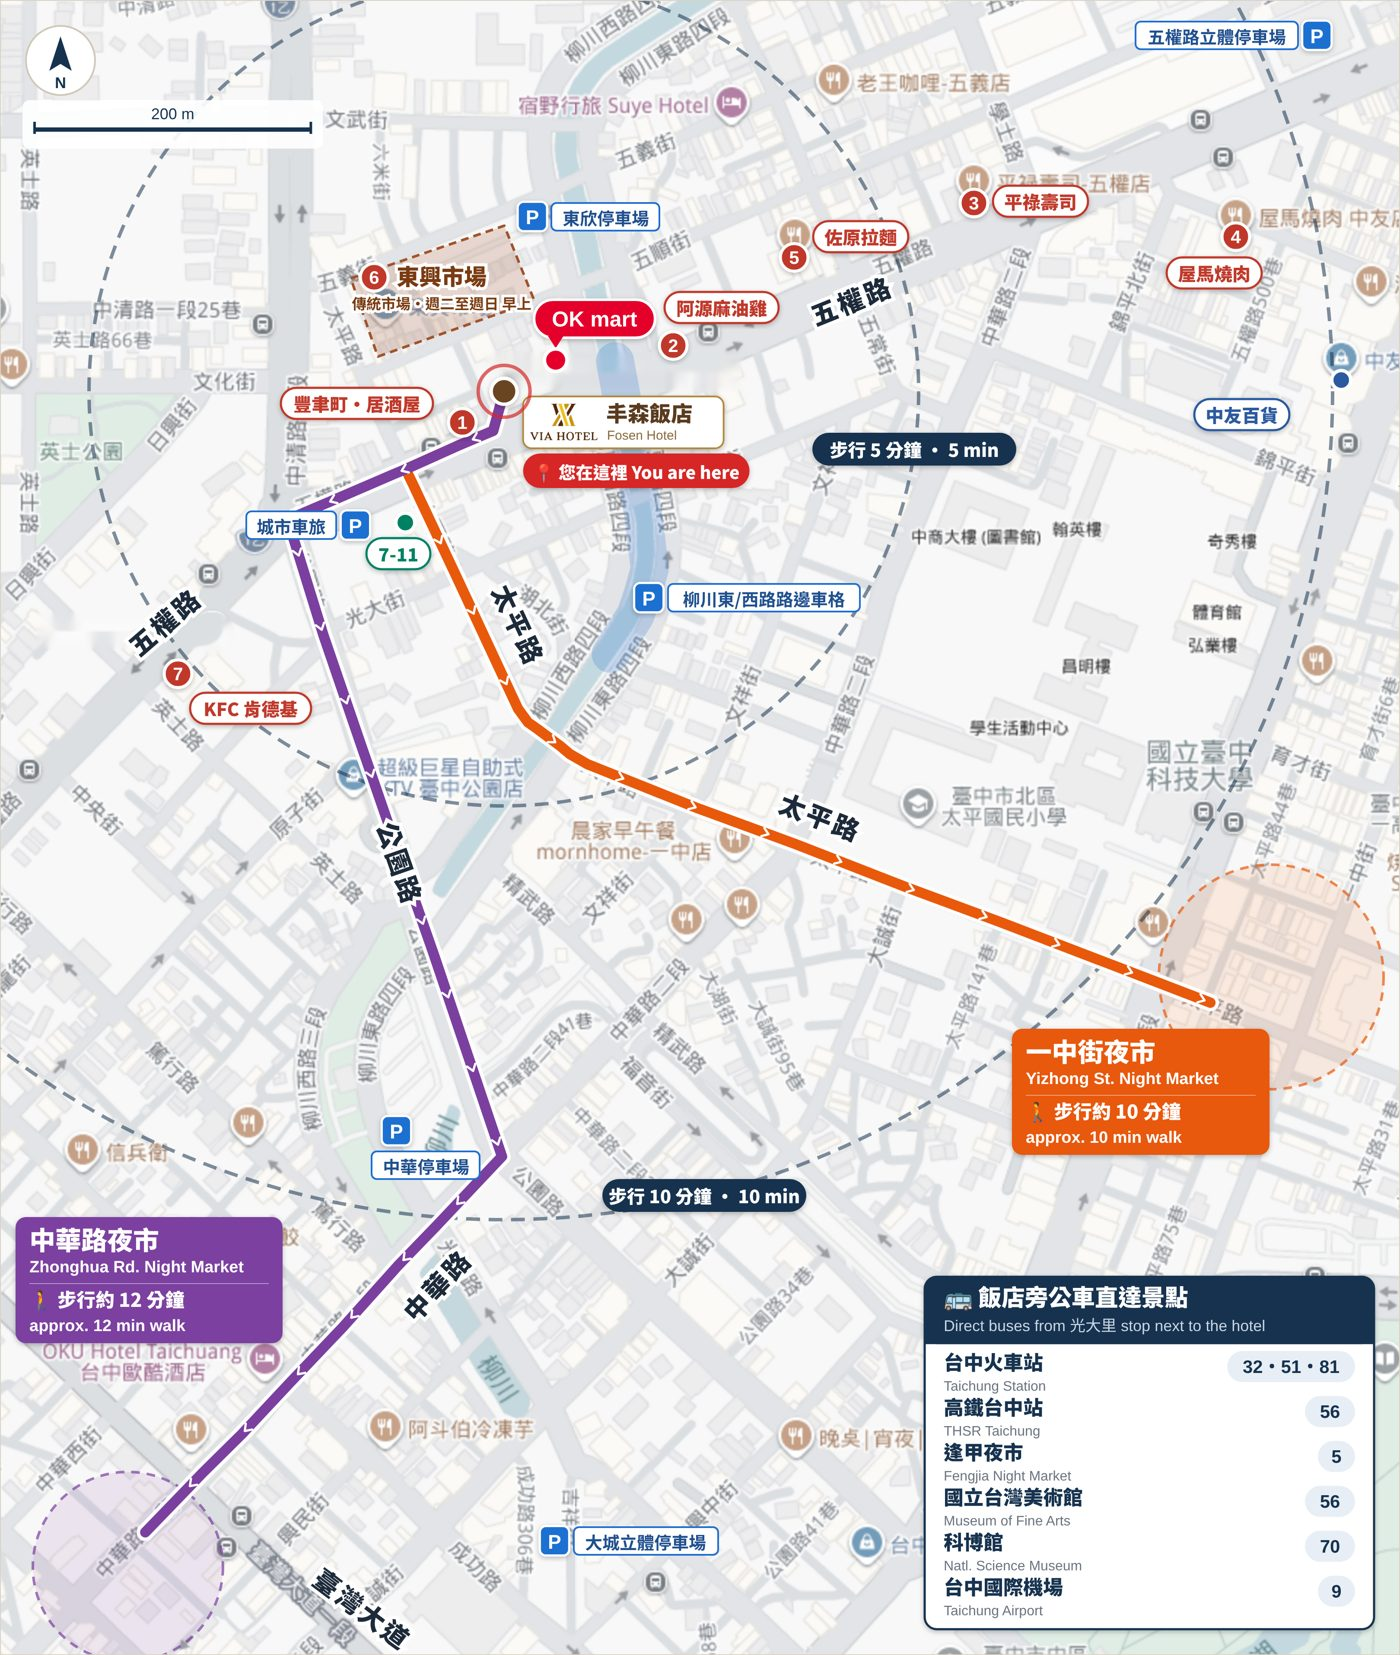
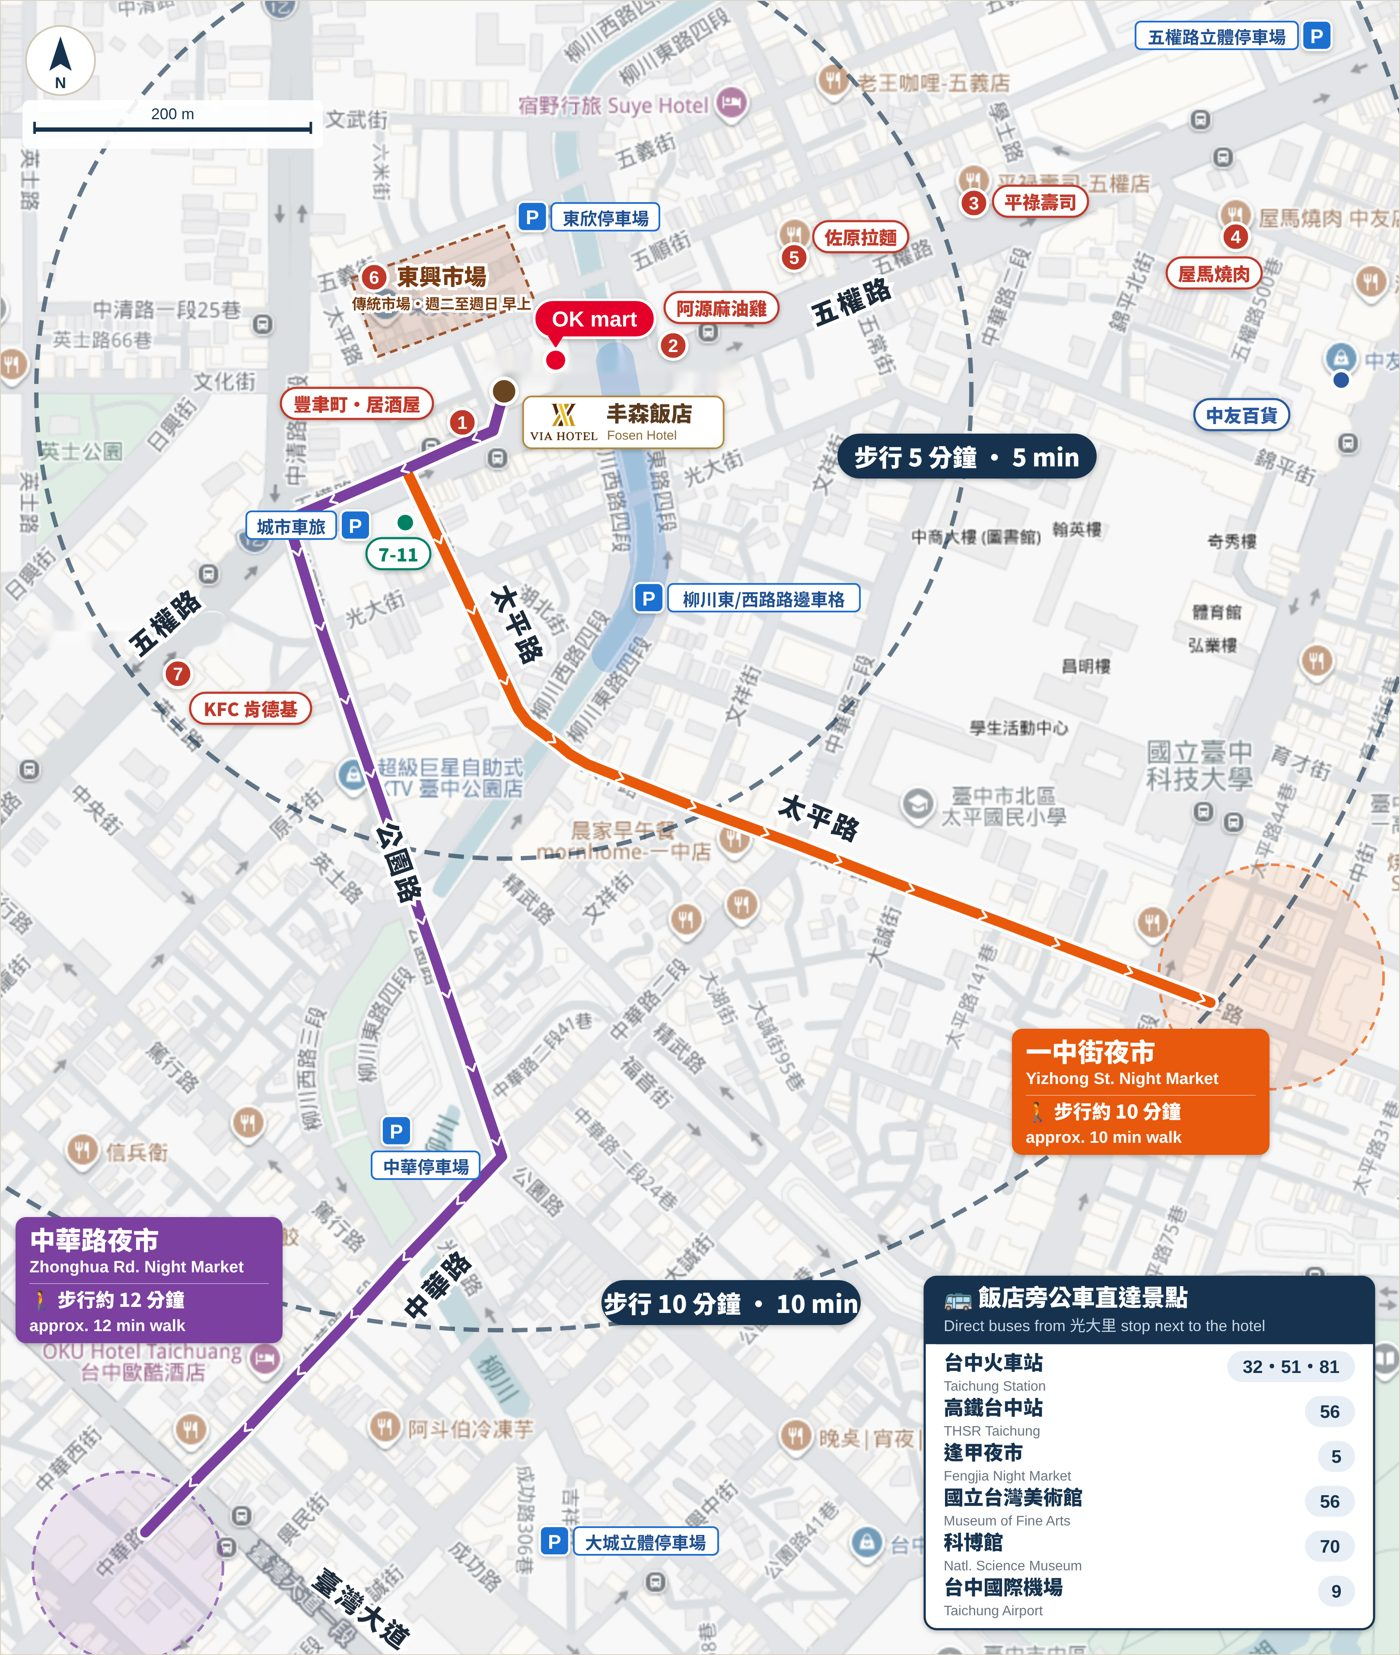
fosen guide: add station / Miyahara / Second Market, old-town plan
Claude-Session: https://claude.ai/code/session_0191sfXJKRonk2w8tJ8679Tx

diff --git a/fosen-guide/index.html b/fosen-guide/index.html
@@ -57,7 +57,7 @@ footer{max-width:720px;margin:0 auto;padding:10px 16px 40px;color:var(--mute);fo
   <p>夜市、美食、市場都在步行 10 分鐘內｜Night markets &amp; food within a 10-min walk</p>
 </header>
 <nav>
-  <a href="#map">地圖 Map</a><a href="#plans">一晚怎麼玩</a><a href="#market">夜市</a><a href="#food">美食</a><a href="#shop">購物便利</a><a href="#park">停車</a><a href="#bus">公車</a>
+  <a href="#map">地圖 Map</a><a href="#plans">一晚怎麼玩</a><a href="#market">夜市</a><a href="#sights">景點</a><a href="#food">美食</a><a href="#shop">購物便利</a><a href="#park">停車</a><a href="#bus">公車</a>
 </nav>
 <main>
 
@@ -94,6 +94,17 @@ footer{max-width:720px;margin:0 auto;padding:10px 16px 40px;color:var(--mute);fo
   <p>東興市場週一公休，約中午收攤，越早去越熱鬧。</p>
 </div>
 
+<div class="plan">
+  <h3>🏛 舊城半日遊｜Old town half-day</h3>
+  <ol>
+    <li>早上散步到 <b>第二市場</b> 吃早午餐（週一公休）</li>
+    <li>走到 <b>台中火車站</b>，看紅磚舊站</li>
+    <li>對面 <b>宮原眼科</b> 買伴手禮、吃冰淇淋</li>
+    <li>回程在台中火車站搭同號公車（32・51・81）回光大里站</li>
+  </ol>
+  <p>不想走路也可以全程搭公車，到台中火車站再步行。</p>
+</div>
+
 <h2 id="market">夜市 <small>Night markets</small></h2>
 <div class="card">
   <div class="no m">夜</div>
@@ -108,6 +119,37 @@ footer{max-width:720px;margin:0 auto;padding:10px 16px 40px;color:var(--mute);fo
   <div class="d">台中老牌夜市，攤位沿街排開，在地人吃宵夜的地方。</div>
   <div class="meta">🚶 步行約 12 分鐘<span>約 16:00–凌晨 04:00</span></div>
   <a class="go" href="https://www.google.com/maps/search/?api=1&query=%E4%B8%AD%E8%8F%AF%E8%B7%AF%E5%A4%9C%E5%B8%82&query_place_id=ChIJS1nm4G09aTQR8LC1Zyr9gdQ">Google 導航</a>
+</div>
+
+<h2 id="sights">稍遠一點的景點 <small>A bit further</small></h2>
+<p class="lead">搭一段公車或散步 20 多分鐘，就是台中最經典的舊城區。</p>
+<div class="card">
+  <div class="no s">站</div>
+  <div class="t">台中火車站<em>Taichung Station</em></div>
+  <div class="d">新站與日治時期的紅磚舊站並排，旁邊就是宮原眼科、第四信用合作社，是舊城散步的起點。</div>
+  <div class="meta">🚌 光大里站搭 32・51・81 直達<span>🚶 步行約 25 分鐘</span></div>
+  <a class="go" href="https://www.google.com/maps/search/?api=1&query=%E5%8F%B0%E4%B8%AD%E7%81%AB%E8%BB%8A%E7%AB%99&query_place_id=ChIJPz37OBQ9aTQRtgYZL9DrtLc">Google 導航</a>
+</div>
+<div class="card">
+  <div class="no s">冰</div>
+  <div class="t">宮原眼科<em>Miyahara</em></div>
+  <div class="d">日治時期眼科診所改建的伴手禮店，像圖書館一樣的木櫃很好拍，冰淇淋口味多到難選。</div>
+  <div class="meta"><span>10:00–21:00</span><span class="tag ok">每天營業</span><span>🚌 搭到台中火車站，步行約 3 分鐘</span></div>
+  <a class="go" href="https://www.google.com/maps/search/?api=1&query=%E5%AE%AE%E5%8E%9F%E7%9C%BC%E7%A7%91&query_place_id=ChIJ-bIJXaeQbjQRBlsPVLME9EY">Google 導航</a>
+</div>
+<div class="card">
+  <div class="no s">市</div>
+  <div class="t">第二市場<em>Taichung Second Market</em></div>
+  <div class="d">日治時期留下的老市場，在地人吃早午餐的地方，滷肉飯、蘿蔔糕、豆漿都有名，下午就陸續收攤。</div>
+  <div class="meta"><span>07:30–15:30</span><span class="tag">週一公休</span><span>🚶 步行約 18 分鐘</span></div>
+  <a class="go" href="https://www.google.com/maps/search/?api=1&query=%E5%8F%B0%E4%B8%AD%E7%AC%AC%E4%BA%8C%E5%B8%82%E5%A0%B4&query_place_id=ChIJFcuTyhI9aTQRVG2bVY9qD70">Google 導航</a>
+</div>
+<div class="card">
+  <div class="no s">園</div>
+  <div class="t">台中公園・湖心亭<em>Taichung Park</em></div>
+  <div class="d">百年老公園，湖心亭是台中地標，免費入園，適合飯後散步。</div>
+  <div class="meta"><span>🚶 步行約 20 分鐘</span></div>
+  <a class="go" href="https://www.google.com/maps/search/?api=1&query=%E6%B9%96%E5%BF%83%E4%BA%AD&query_place_id=ChIJd4ZLdms9aTQRNvhSHJDrebA">Google 導航</a>
 </div>
 
 <h2 id="food">周邊美食 <small>Food</small></h2>
